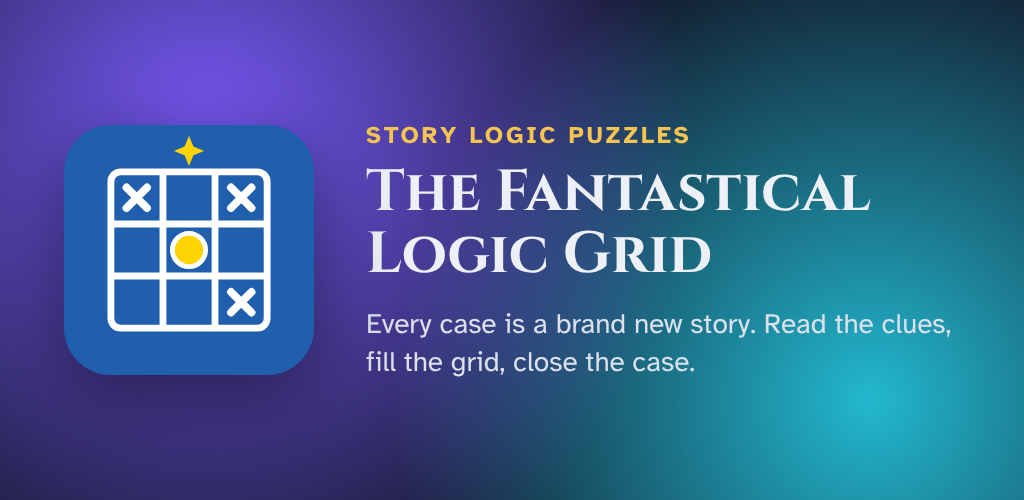
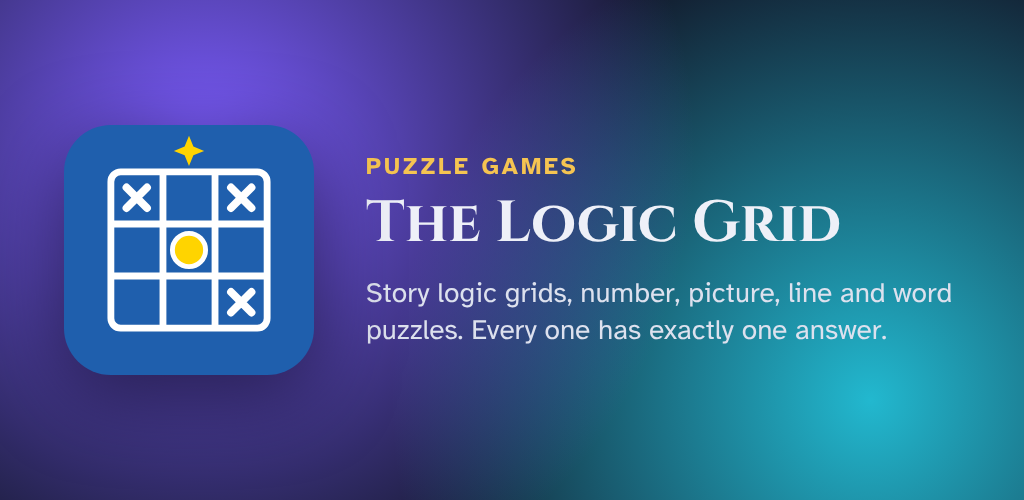
Google Play: list the app as The Logic Grid, its real name
The banner and listing said The Fantastical Logic Grid, but the app on the
phone is The Logic Grid, a set of puzzle games with The Fantastical Logic
Grid as its main game. Banner, listing text and owner steps now match.

Claude-Session: https://claude.ai/code/session_01379Npz2PfuoRaZ14JEPWUr

Changed region(s): [[0.3438, 0.24, 0.9375, 0.75]]

diff --git a/media/play-store/feature-graphic.html b/media/play-store/feature-graphic.html
@@ -18,8 +18,8 @@ p.tag { font-size: 28px; line-height: 1.35; margin: 0; color: #DDE1EE; }
 <body>
 <img src="../../web/icons/icon.svg" alt="">
 <div>
-  <p class="eyebrow">Story logic puzzles</p>
-  <h1>The Fantastical Logic Grid</h1>
-  <p class="tag">Every case is a brand new story. Read the clues, fill the grid, close the case.</p>
+  <p class="eyebrow">Puzzle games</p>
+  <h1>The Logic Grid</h1>
+  <p class="tag">Story logic grids, number, picture, line and word puzzles. Every one has exactly one answer.</p>
 </div>
 </body></html>

diff --git a/docs/GOOGLE-PLAY.md b/docs/GOOGLE-PLAY.md
@@ -52,7 +52,7 @@ are set. iOS is paused.
    `fantasticallogicgrid@gmail.com` as the developer account email (private,
    for Google only). When it asks for the **contact email** that players see,
    use `support@thelogicgrid.com`. Finish the identity and phone checks.
-2. **Create app**: name **The Fantastical Logic Grid**, language English (United States),
+2. **Create app**: name **The Logic Grid**, language English (United States),
    **Game**, **Free**. Tick the declarations.
 3. **Set up your app** (the dashboard lists each item). Use the answers below.
 4. **Testing > Closed testing > Create track**. Upload the `.aab`. When asked
@@ -75,22 +75,28 @@ from GitHub.
 
 ## Store listing
 
+The app is **The Logic Grid** (the name on the phone's home screen and in
+the web app's manifest). The Fantastical Logic Grid is its main game.
+
 **App name (30 characters max)**
-The Fantastical Logic Grid
+The Logic Grid
 
 **Short description (80 characters max)**
-Story logic grid puzzles. Every case is a new story. Free, no ads, works offline.
+Story logic grids plus number, picture and word puzzles. Free, no ads, offline.
 
 **Full description**
-Every case in The Fantastical Logic Grid is a brand new story. Read the clues, fill the grid with X and O, and close the case. Every puzzle has exactly one answer you can reach without guessing.
+The Logic Grid is a collection of puzzle games where every puzzle has exactly one answer you can reach without guessing.
 
-• Seven difficulty levels, from Basic to Theoretical Physicist, and almost any size
-• More than 40 themes, from mysteries and holidays to national parks
+The main game, The Fantastical Logic Grid, turns every case into a brand new story. Read the clues, fill the grid with X and O, and close the case.
+
+• Story logic grids with seven difficulty levels, from Basic to Theoretical Physicist, and more than 40 themes
+• NINETIMESNINE number puzzles, with hints that teach the next step
+• More puzzle types: Cage Math, Sum Cross, Picture Grid, Skyline, Star Field, Loop Line, Island Bridges, Crossword and more
 • A new daily puzzle for everyone, with streaks and badges
 • Hints that explain the reasoning, unlimited undo, and autosave
 • Characters who read their clues aloud, in natural voices
 • Play in 100 languages
-• Print any puzzle, with the answer key on its own page
+• Print any story puzzle, with the answer key on its own page
 • Race other players and challenge friends to beat your time
 • Screen reader friendly, with dark and high-contrast colors and a Silent mode
 • Works offline once installed

diff --git a/docs/owner-tasks/2026-11-08-google-play.md b/docs/owner-tasks/2026-11-08-google-play.md
@@ -32,7 +32,7 @@ Reply OK in the project before paying.
    4. Install the **Google Play Console** app on your Android phone and sign in
       with the same account. Google uses it to confirm you own an Android phone.
 3. **Create the app** in Play Console: **Create app**, name
-   *The Fantastical Logic Grid*, English (United States), **Game**, **Free**,
+   *The Logic Grid* (the name on the phone), English (United States), **Game**, **Free**,
    tick the declarations.
 4. **Fill in "Set up your app"** with the answers in GOOGLE-PLAY.md: privacy
    policy https://thelogicgrid.com/privacy/, no ads, app access, target
